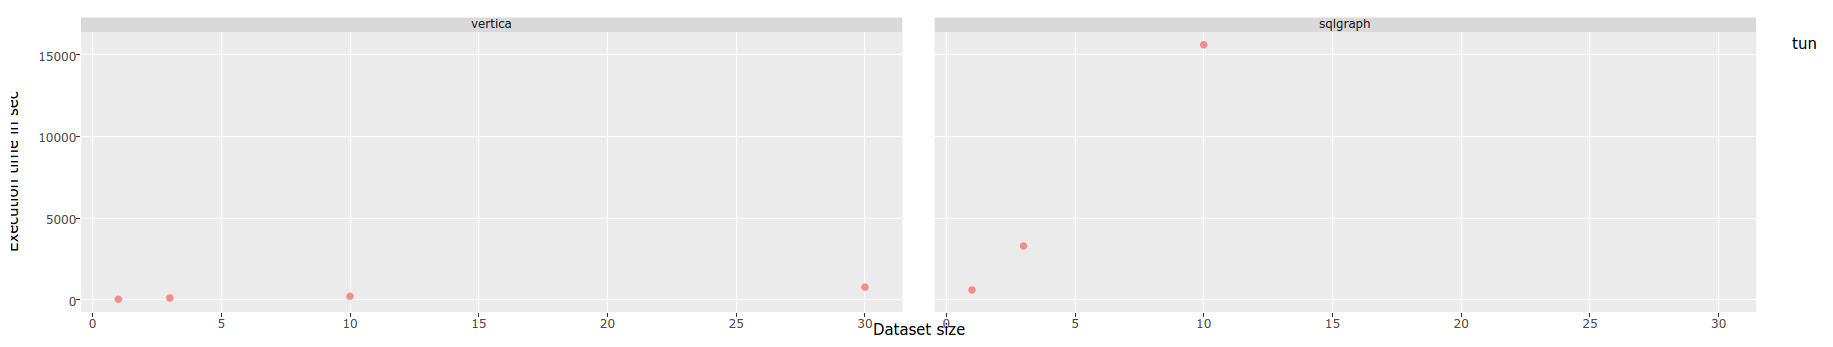
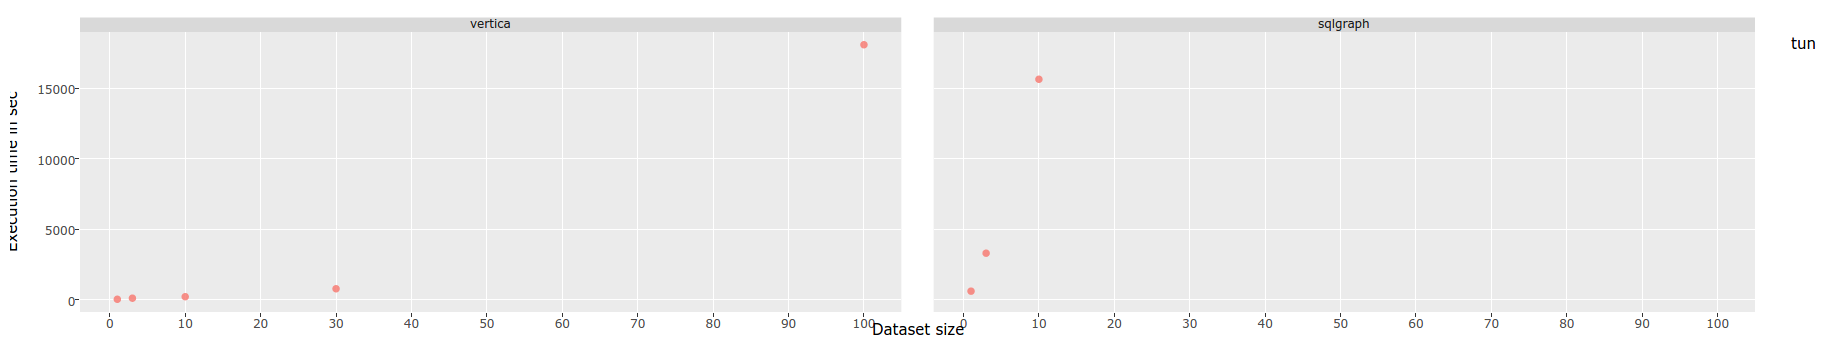
Corrected scale of Vertica results 100G Edited graph on main readme to fit new results added link to 1G dataset for quickstart of project

diff --git a/readme.md b/readme.md
@@ -65,6 +65,8 @@ We chose to use the following data sizes when performing the benchmarks:
 
 This was to allow us to see how the different benchmarks varied over a range of sizes. Note: Whilst some may not consider 100GB to be "big data" we felt that this showed enough variety in size to get the conversation going, but would be very interested if someone continued this with 1TB+.
 
+For a quick start without messing around with the LDBC gen, the 1GB data is available in an ingested form [here][7] and a raw form [here][8] 
+
 ###Chosen queries
 Out of the possible 14 LDBC queries found within the pdf, we chose to focus on 2,6,8,9 and 11. This is because several utilised cypher functions (a feature available within only neo4j) and were therefore not possible to implement in sqlgraph or vertica without substantial work. To make this slightly more interesting we also chose to look at how the frameworks dealt with graph traversals by increasing the number of hops in query 9 from 1 through to 5.
 
@@ -125,6 +127,7 @@ It is also important to note that whilst SQLGraph seems to normally fit in-betwe
 
 ####Query 9, 5 hops
 ![alt text](results/images/query9-5.png "Query 9-5 Results")
+Note: The large jump in time between 30GB and 100GB for the Vertica cluster can be attributed to data spilling to disk during the traversal. We do not believe this would be the case on a larger cluster where more memory would be available.
 
 ####Query 11
 ![alt text](results/images/query11.png "Query 11 Results")
@@ -135,4 +138,6 @@ It is also important to note that whilst SQLGraph seems to normally fit in-betwe
 [4]:https://my.vertica.com/docs/7.2.x/HTML/
 [5]:http://dag.wiee.rs/home-made/dstat/
 [6]:https://www.hpe.com/h20195/v2/getpdf.aspx/c04128191.pdf?ver=43
+[7]:https://drive.google.com/file/d/0B0uip08Km2LPc0d0M0JBYmdKWms/view?usp=sharing 
+[8]:https://drive.google.com/file/d/0B0uip08Km2LPUTAyaUgyV2VybVk/view?usp=sharing
 
